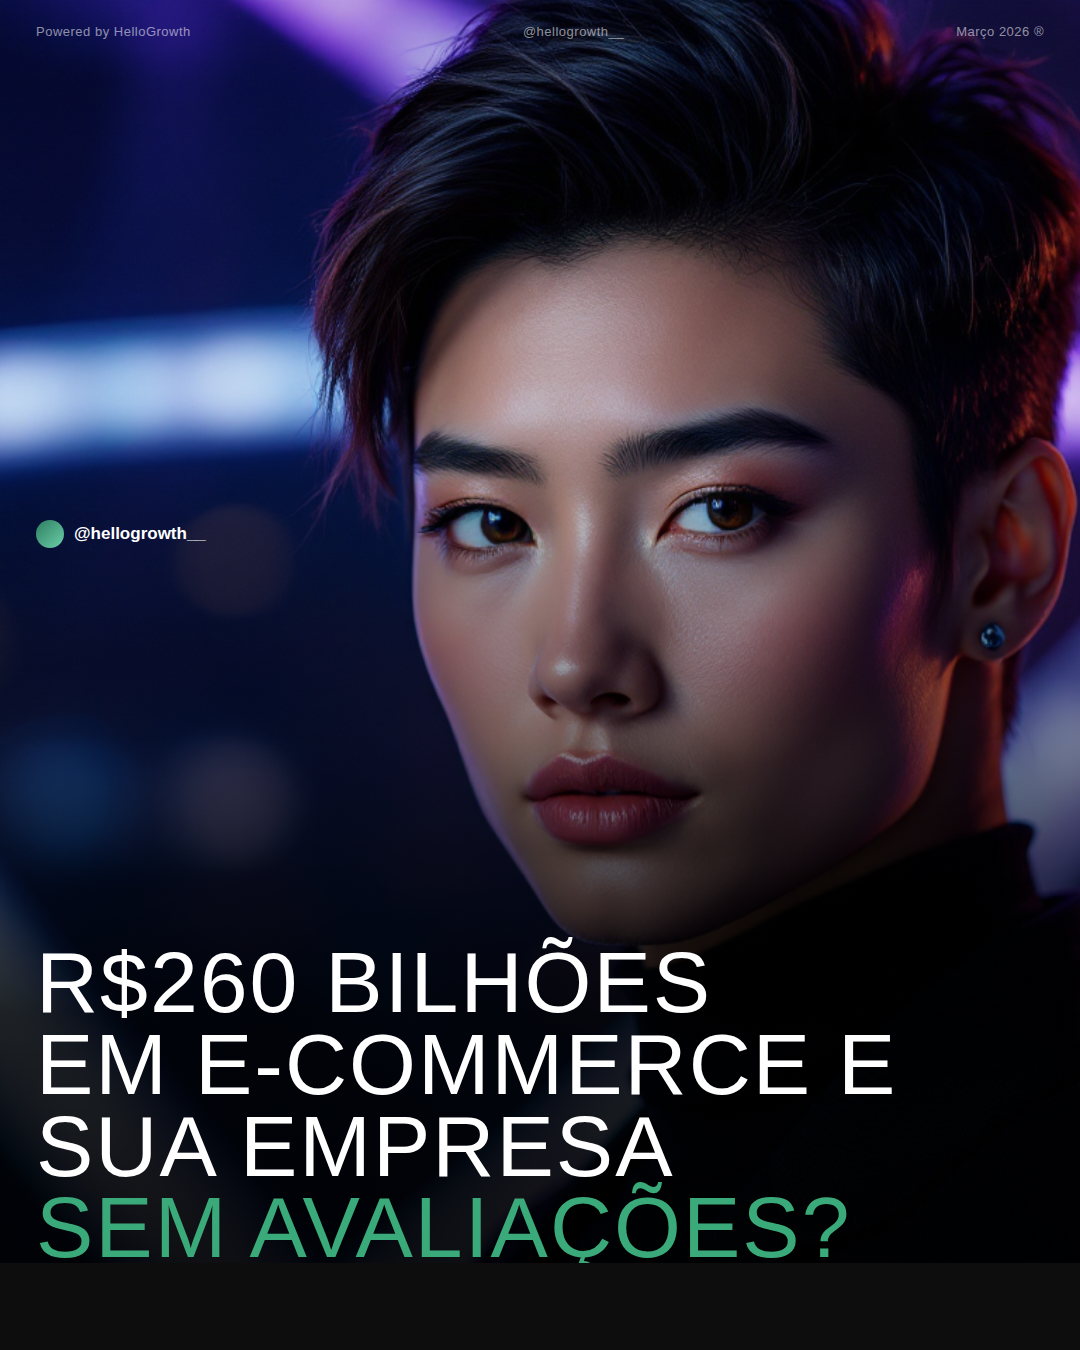
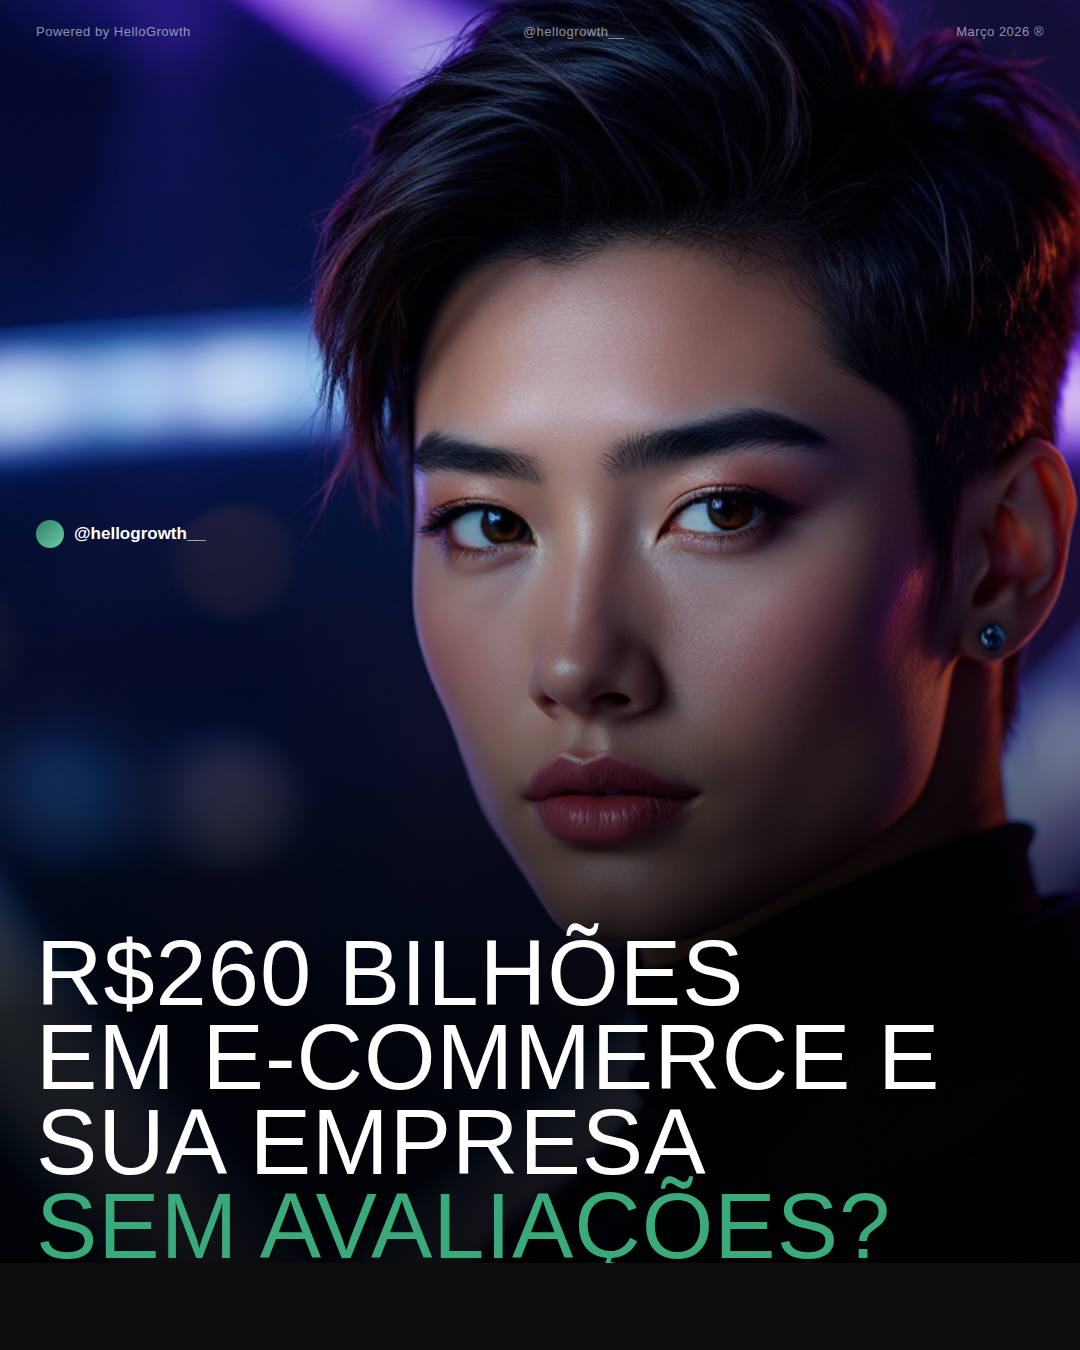
Update cover font to Anton (bolder condensed style)
https://claude.ai/code/session_01RXRUyw64HWp6pgoosUTsE4

Changed region(s): [[0.0306, 0.6844, 0.8556, 0.9333]]

diff --git a/squads/social-content/output/2026-03-27-v3/slides/card-01-cover.html b/squads/social-content/output/2026-03-27-v3/slides/card-01-cover.html
@@ -2,7 +2,7 @@
 <html>
 <head>
 <meta charset="utf-8">
-<link href="https://fonts.googleapis.com/css2?family=Bebas+Neue&family=Montserrat:wght@400;500;700;900&display=swap" rel="stylesheet">
+<link href="https://fonts.googleapis.com/css2?family=Anton&family=Montserrat:wght@400;500;700;900&display=swap" rel="stylesheet">
 <style>
 * { margin: 0; padding: 0; box-sizing: border-box; }
 html, body { background: #0d0d0d; width: 1080px; height: 1350px; font-family: 'Montserrat', sans-serif; overflow: hidden; }
@@ -55,11 +55,11 @@ html, body { background: #0d0d0d; width: 1080px; height: 1350px; font-family: 'M
   z-index: 10;
 }
 .big-title {
-  font-family: 'Bebas Neue', 'Montserrat', sans-serif;
-  font-size: 86px;
+  font-family: 'Anton', sans-serif;
+  font-size: 92px;
   font-weight: 400;
-  line-height: 0.95;
-  letter-spacing: 2px;
+  line-height: 0.92;
+  letter-spacing: 1px;
   text-transform: uppercase;
   color: #fff;
   margin-bottom: 20px;
